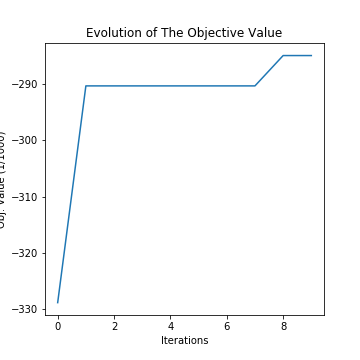
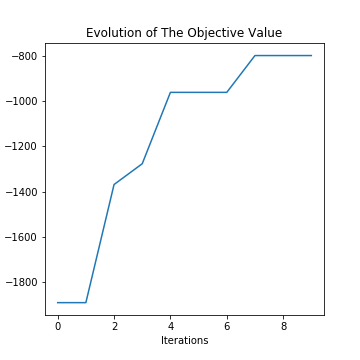
Separeted Instances, with distinct scenarios

diff --git a/Main.py b/Main.py
@@ -1,7 +1,7 @@
 #!/usr/bin/env python
 # coding: utf-8
 
-# In[219]:
+# In[73]:
 
 
 import pandas as pd
@@ -11,83 +11,104 @@ import matplotlib.pyplot as plt
 import BRKGA as brkga
 
 
-# In[220]:
+# In[74]:
 
 
-dem = pd.read_csv("Instances/AnalisePopulacionalTratada.csv",index_col=0)
+dem = pd.read_csv("Instances/DemographicData.csv",index_col=0)
 dem = dem.reindex(index = sorted(dem.index))
 
 
-# In[221]:
+# In[75]:
 
 
-prox = pd.read_csv("Instances/Proximidade.csv",dtype=int, index_col=0)
+prox = pd.read_csv("Instances/Neighboorhood.csv",dtype=int, index_col=0)
 prox.columns = prox.columns.to_numpy(int)
 prox = prox.reindex(index = sorted(prox.index), columns=sorted(prox.columns))
 
 
-# In[248]:
+# In[76]:
 
 
-_relation = pd.read_csv("Instances/hospitalCidades.csv",index_col=0,header=None,squeeze=True)
+params = pd.read_csv("Input/Parameters.csv", index_col=0,dtype={"N":int,"M":int,"P":int,"Elite":int,"Mutant":int,
+                                                                "K":int, "S":int,"Type":bool})
 
 
-# In[249]:
+# In[125]:
 
 
-params=pd.DataFrame([len(_relation),8,20,4,2,10,False],["N","M","P","Elite","Mutant","K","Type"],["Value"])
+_relation = pd.read_csv("Input/Facilities.csv",index_col=0)
+
+facilities_cost = []
+facilities_cover = []
+
+for i in _relation["Cost"].values:
+    facilities_cost.append(i)
+
+for i in _relation["Cover"].values:
+    facilities_cover.append(i)
+
+facilities_cost = _relation["Cost"].values
+facilities_cover = _relation["Cover"].values
 
 
-# In[250]:
+# In[115]:
 
 
-facilities_cost = np.random.random(params.loc["N"]["Value"])*100000
-facilities_cover = np.random.random(params.loc["N"]["Value"])*1000
+for i in range(0,params["N"]["Value"]):
+    facilities_cover[i]= facilities_cover[i]/dem["Urban Density (People/Km2)"][i]*_relation["City"].value_counts()[_relation["City"][i]]
+    facilities_cost[i] = facilities_cost[i]*_relation["City"].value_counts()[_relation["City"][i]]/dem["Urban Density (People/Km2)"][i]
 
 
-# In[251]:
-
-
-for i in range(0,params.loc["N"]["Value"]):
-    facilities_cover[i]= facilities_cover[i]/dem["Urban Density (People/Km2)"][i]*_relation.value_counts()[_relation[i]]
-
-
-# In[252]:
+# In[116]:
 
 
 Heuristic = brkga.BRKGA(facilities_cover,facilities_cost,
-                        params.loc["M"]["Value"],params.loc["P"]["Value"],
-                        params.loc["Elite"]["Value"],params.loc["Mutant"]["Value"],
-                        params.loc["K"]["Value"],params.loc["Type"]["Value"])
+                        params["M"]["Value"],params["P"]["Value"],
+                        params["Elite"]["Value"],params["Mutant"]["Value"],
+                        params["K"]["Value"],params["Type"]["Value"])
 
 
-# In[253]:
+# In[117]:
 
 
 solutions, facilities = Heuristic.Solve()
 
 
-# In[254]:
+# In[118]:
 
 
 best_solutions = Heuristic.getObjectiveEvolution()
 
 
-# In[255]:
+# In[119]:
 
 
 Fig = plt.figure(figsize=(5,5),)
-plt.plot(range(0,params.loc["K"]["Value"]),pd.Series(best_solutions)/1000,figure=Fig)
+plt.plot(range(0,params["K"]["Value"]),pd.Series(best_solutions),figure=Fig)
 plt.xlabel("Iterations")
 plt.ylabel("Obj. Value (1/1000)")
 plt.title("Evolution of The Objective Value")
-Fig.savefig("Exit/Evolution.png")
+Fig.savefig("Exit/Evolution"+str(params["S"]["Value"])+".png")
 
 
-# In[256]:
+# In[132]:
 
 
 exit_data = pd.DataFrame(facilities)
-exit_data["sol_value"] = solutions
-exit_data.to_csv("Exit/Solutions.csv")
+exit_data["obj_value"] = solutions
+exit_data["final_cost"] = 0
+exit_data["final_cover"] = 0
+
+for i in exit_data.index:
+    cover = 0
+    cost = 0
+    for j in exit_data.loc[i][:params["M"]["Value"]]:
+        cost += _relation["Cost"][j]
+        cover += _relation["Cover"][j]
+        
+    exit_data.loc[i]["final_cost"] = cost
+    exit_data.loc[i]["final_cover"] = cover
+    
+exit_data = exit_data.sort_values("obj_value",ascending=False)    
+exit_data.to_csv("Exit/Solution"+str(params["S"]["Value"])+".csv")
 
